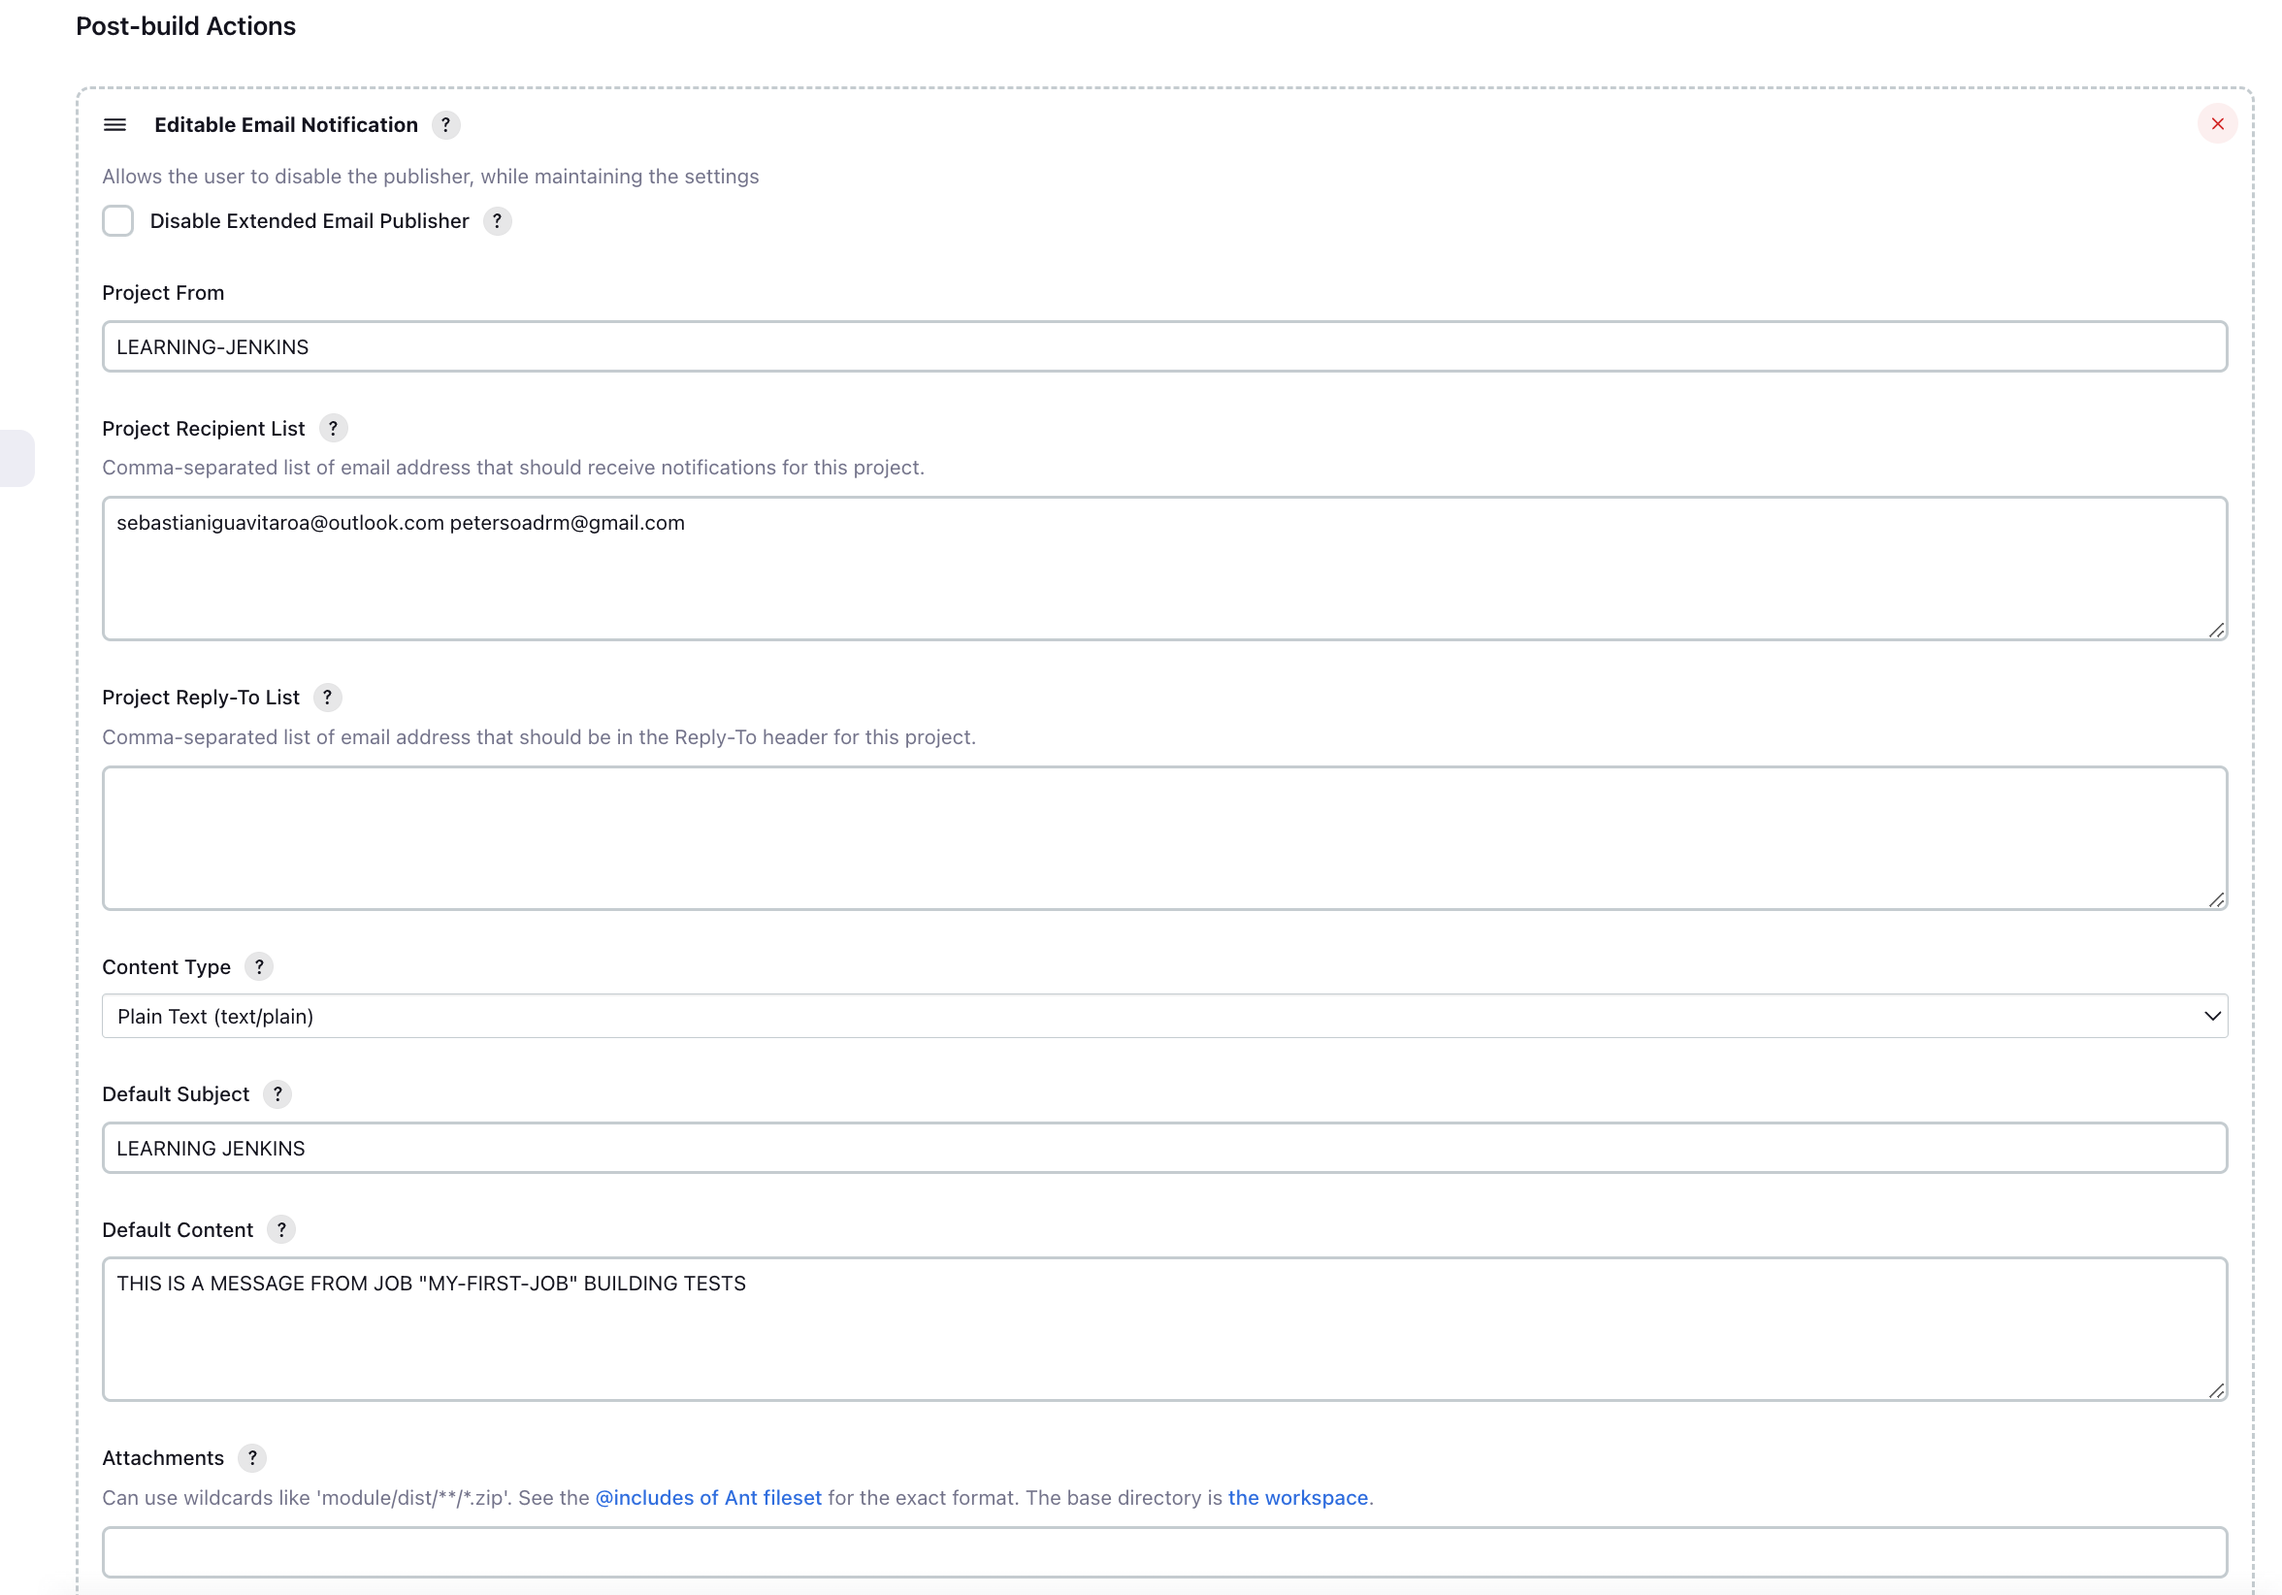
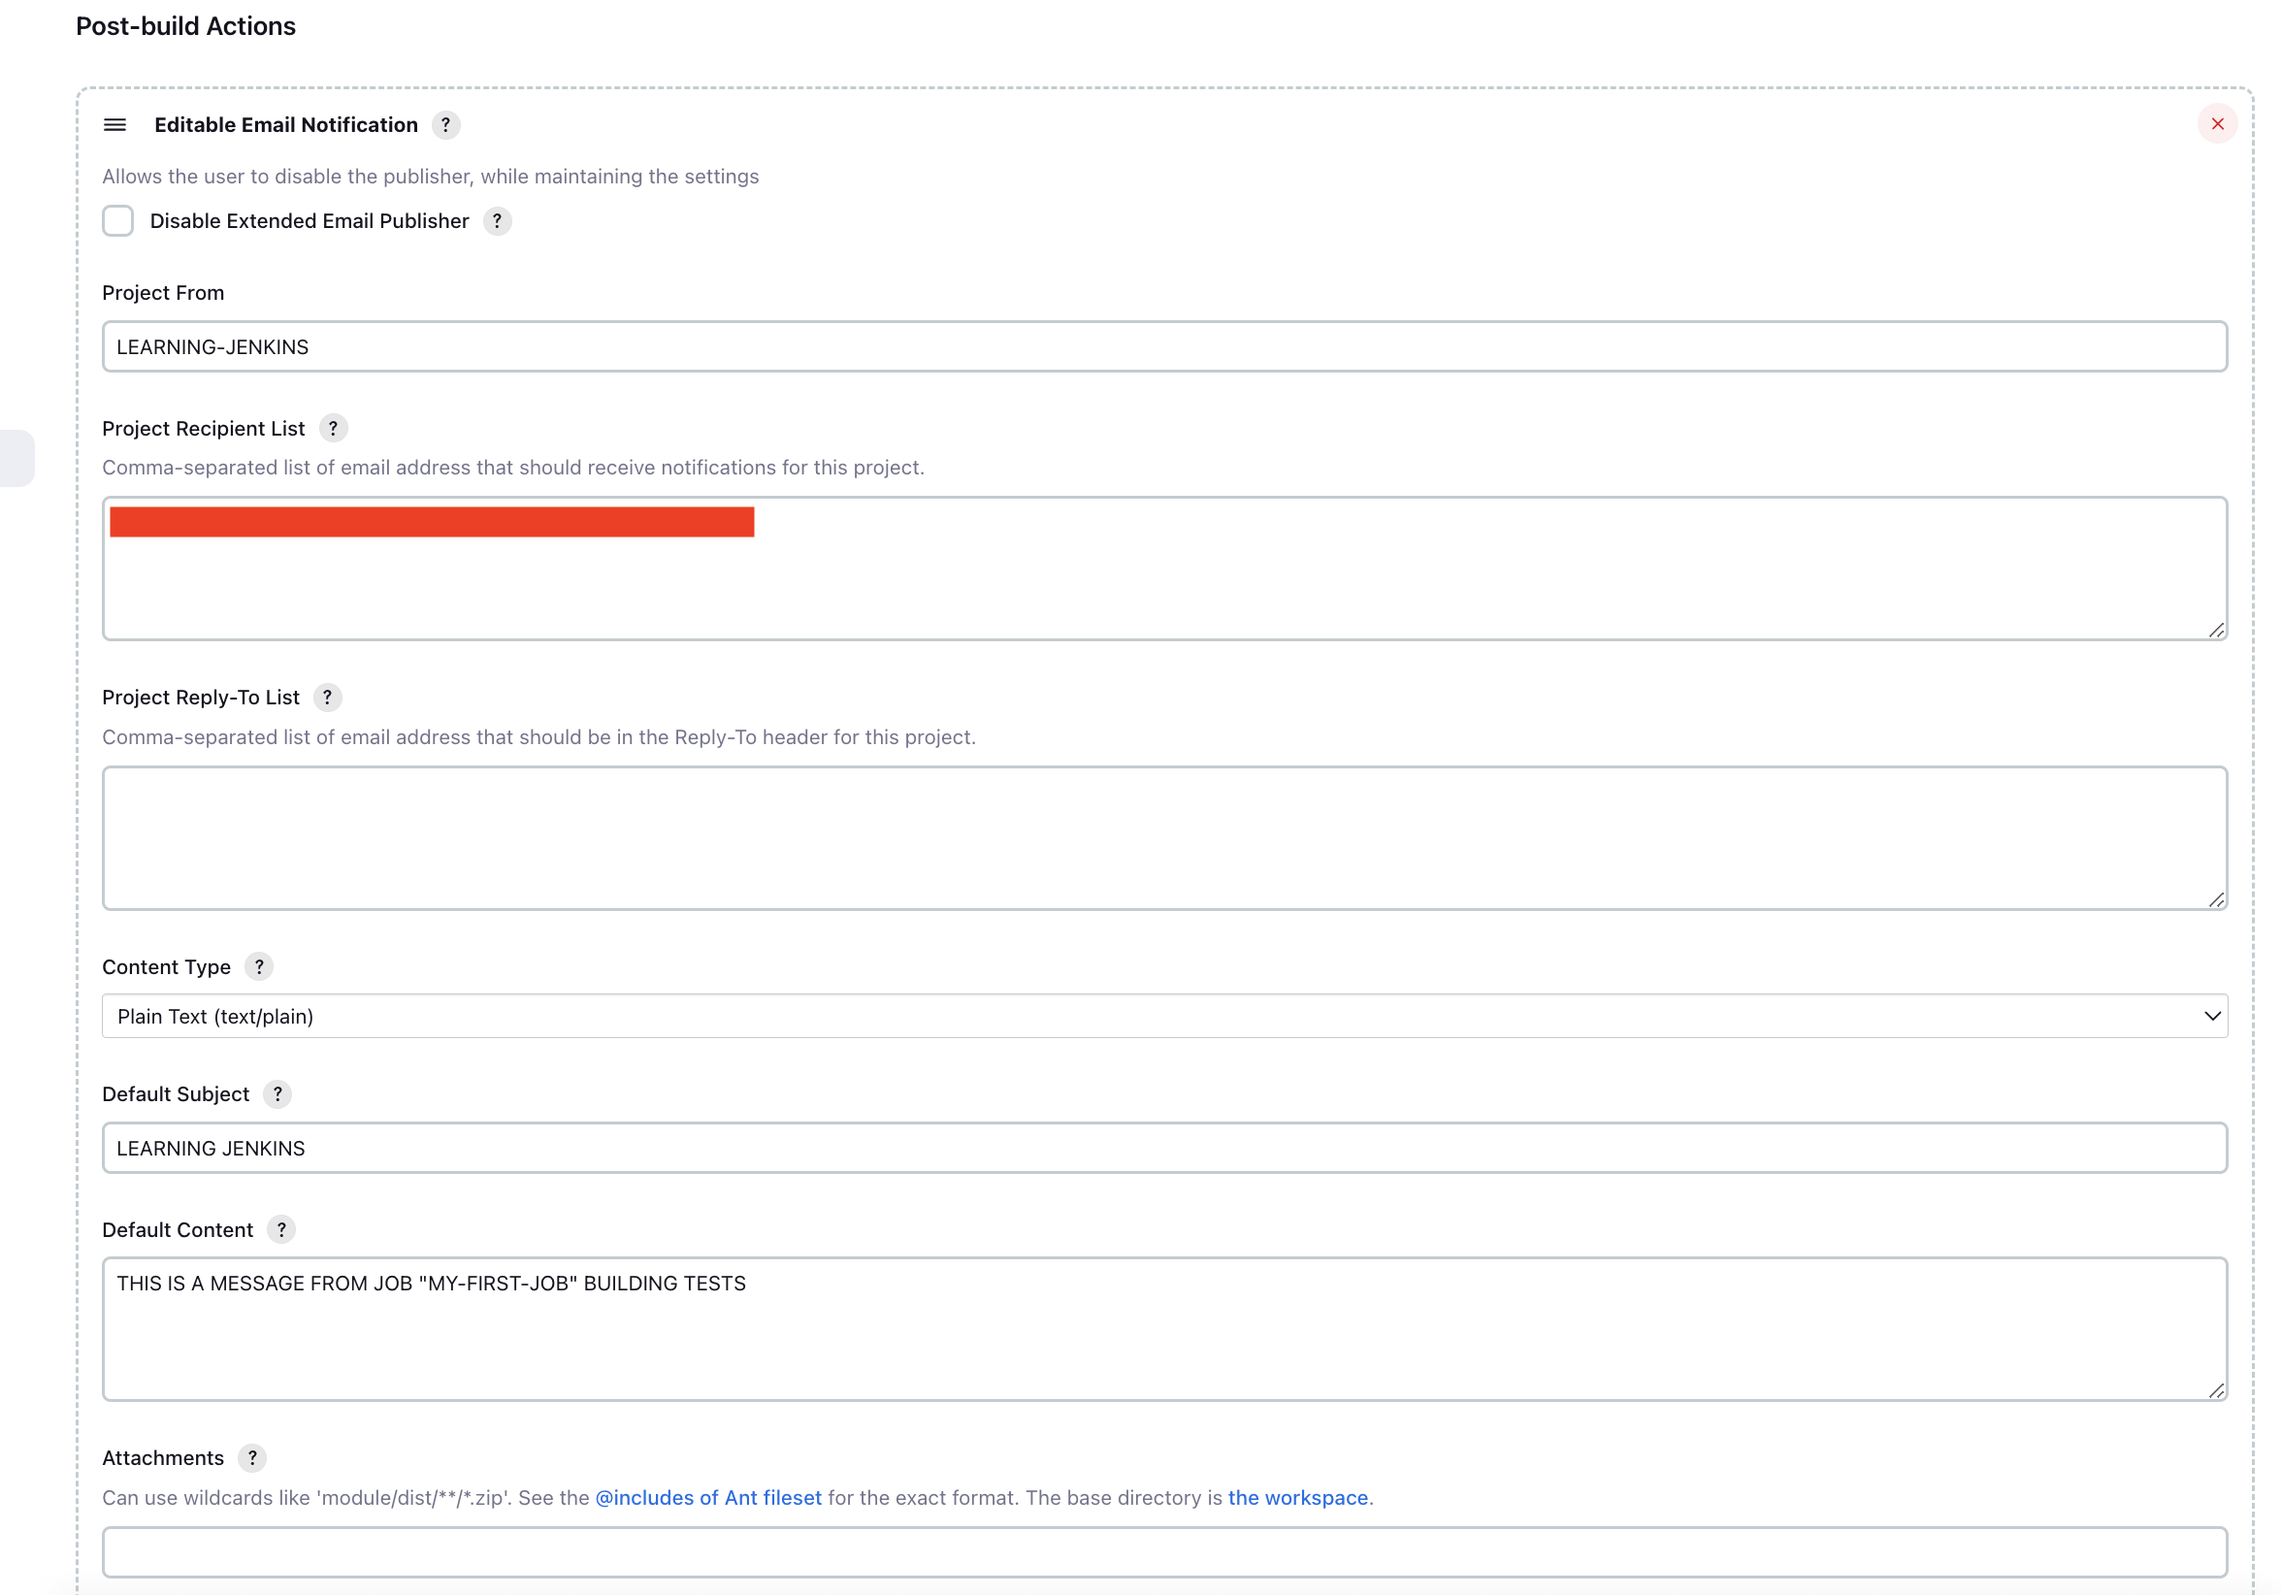
chore: update docker compose and docs

Changed region(s): [[0.031, 0.3102, 0.3414, 0.3412]]

diff --git a/README.md b/README.md
@@ -22,50 +22,43 @@ Open source software and on-premise, its wrote on Java, used to automate and dep
 
 ## INSTALLATION WITH DOCKER
 
-- install docker
 
-    #docker pull jenkins #failed
+### OPTION 1: DOCKER COMPOSE
+
+- It'll use [docker-compose.yml](docker-compose.yml)
+
+    ```shell
+    # Running
+    #   docker pull jenkins/jenkins
+    #   docker compose up -d
+    #   docker compose -f docker-compose.yml up -d
+    # enter to the container
+    #   docker exec -it jenkins bash
+    # check the password and copy
+    #   cat /var/jenkins_home/secrets/initialAdminPassword
+    ```
+
+### OPTION 2: MANUAL
+
+    ```shell
+    # docker pull jenkins # failed
     docker pull jenkins/jenkins
-    #run container
+    # run container
     docker run -d --name jenkins -p 5002:8080 jenkins/jenkins
-    #runt container with volume
+    # runt container with volume
     docker run -d --name jenkins -p 5002:8080 -v /Users/peter/Desktop/Projects/learning-jenkins/volumes:/var/jenkins_home jenkins/jenkins
-    #enter to the container
+    # enter to the container
     docker exec -it jenkins bash
-    #check the password and copy
+    # check the password and copy
     cat /var/jenkins_home/secrets/initialAdminPassword
-    #go to localhost:jenkins-container-port and paste de password
-    #install default 
-    #add data
-    #username: admin
-    #password: admin
-    #full name: administrator
-    #email:
-    #access through http://localhost:5002/
-    #Also you can use a docker-compose
-    ```yml
-    version: '3'
-
-    services:
-    jenkins:
-        image: jenkins/jenkins:lts-jdk17
-        container_name: jenkins
-        restart: always
-        ports:
-        # jenkins default port
-        - "8080:8080"
-        # this port is used to connect Jenkins agents, specially used on master.slave mode to distribute the work charge
-        - "50000:50000"
-        volumes:
-        - jenkins_home:/var/jenkins_home
-
-    volumes:
-    jenkins_home:
-
-    #Running
-    #docker pull jenkins/jenkins:lts-jdk17
-    #docker-compose up -d
-    #docker run -it --name jenkins_jenkins_home --rm -v jenkins_jenkins_home:/ruta/dentro/contenedor alpine sh
+    # go to localhost:jenkins-container-port and paste de password
+    # install default 
+    # add data
+    # username: admin
+    # password: admin
+    # full name: administrator
+    # email:
+    # access through http://localhost:5002/
     ```
 
 ## ADMINISTRATION
@@ -124,7 +117,16 @@ used to automate tasks
         - Trigger builds remotely (e.g., from scripts): run the job through an HTTP call
         - Build after other projects are built: run the job after another job is executed
         - Build periodically: schedule the job to run at regular intervals using a cron
-        - GitHub hook trigger for GITScm polling 🟢: run the job when Git notifies Genkins about a change in the repository. Also is necessary that you configure webhooks in your repository, in PayloadURL "http://your-jenkins-url/github-webhook/" ![](JenkinsDocu/github-webhooks.png)
+        - GitHub hook trigger for GITScm polling 🟢: run the job when Git notifies Jenkins about a change in the repository. Also is necessary that you configure webhooks in your repository, in PayloadURL 
+            - to add the payload url you can have some options:
+                - using tools as [localtunnel](#expose-ports-for-local-tests), ngrok, etc
+                - cloudflare steps:
+                    - brew install cloudflare/cloudflare/cloudflared
+                    - cloudflared tunnel --url http://localhost:8080
+                    - copy the url provided by cloudflared and add /github-webhook/ at the end
+                        - e.g: https://surprised-recipes-threshold-smith.trycloudflare.com/github-webhook/
+                    - e.g: https://wicked-berries-jam.loca.lt/github-webhook/
+        "http://your-jenkins-url/github-webhook/" ![](JenkinsDocu/github-webhooks.png)
         - Poll SCM: Jenkins will check the SCM for changes at regular intervals and run the job if there are changes
     - Build Environment: configure the environment where the job will be executed ![](JenkinsDocu/config-job/3-build-trigger-and-build-environment.png)
         - Delete workspace before build starts: clear the workspace before starting the build 
@@ -157,7 +159,7 @@ used to automate tasks
 for node projects in case that you have many registries and the job generates errors check the package-log.json and verify if the registry that produces the error is mention and remove all its references if you don't need it
 
 ## EXPOSE PORTS FOR LOCAL TESTS
-- pnpm install -g localtunnel
+- pnpm add -g localtunnel
     - localtunnel exposes your localhost to the world for easy testing and sharing! No need to mess with DNS or deploy just to have others test out your changes.
     - lt --port 8080
 
